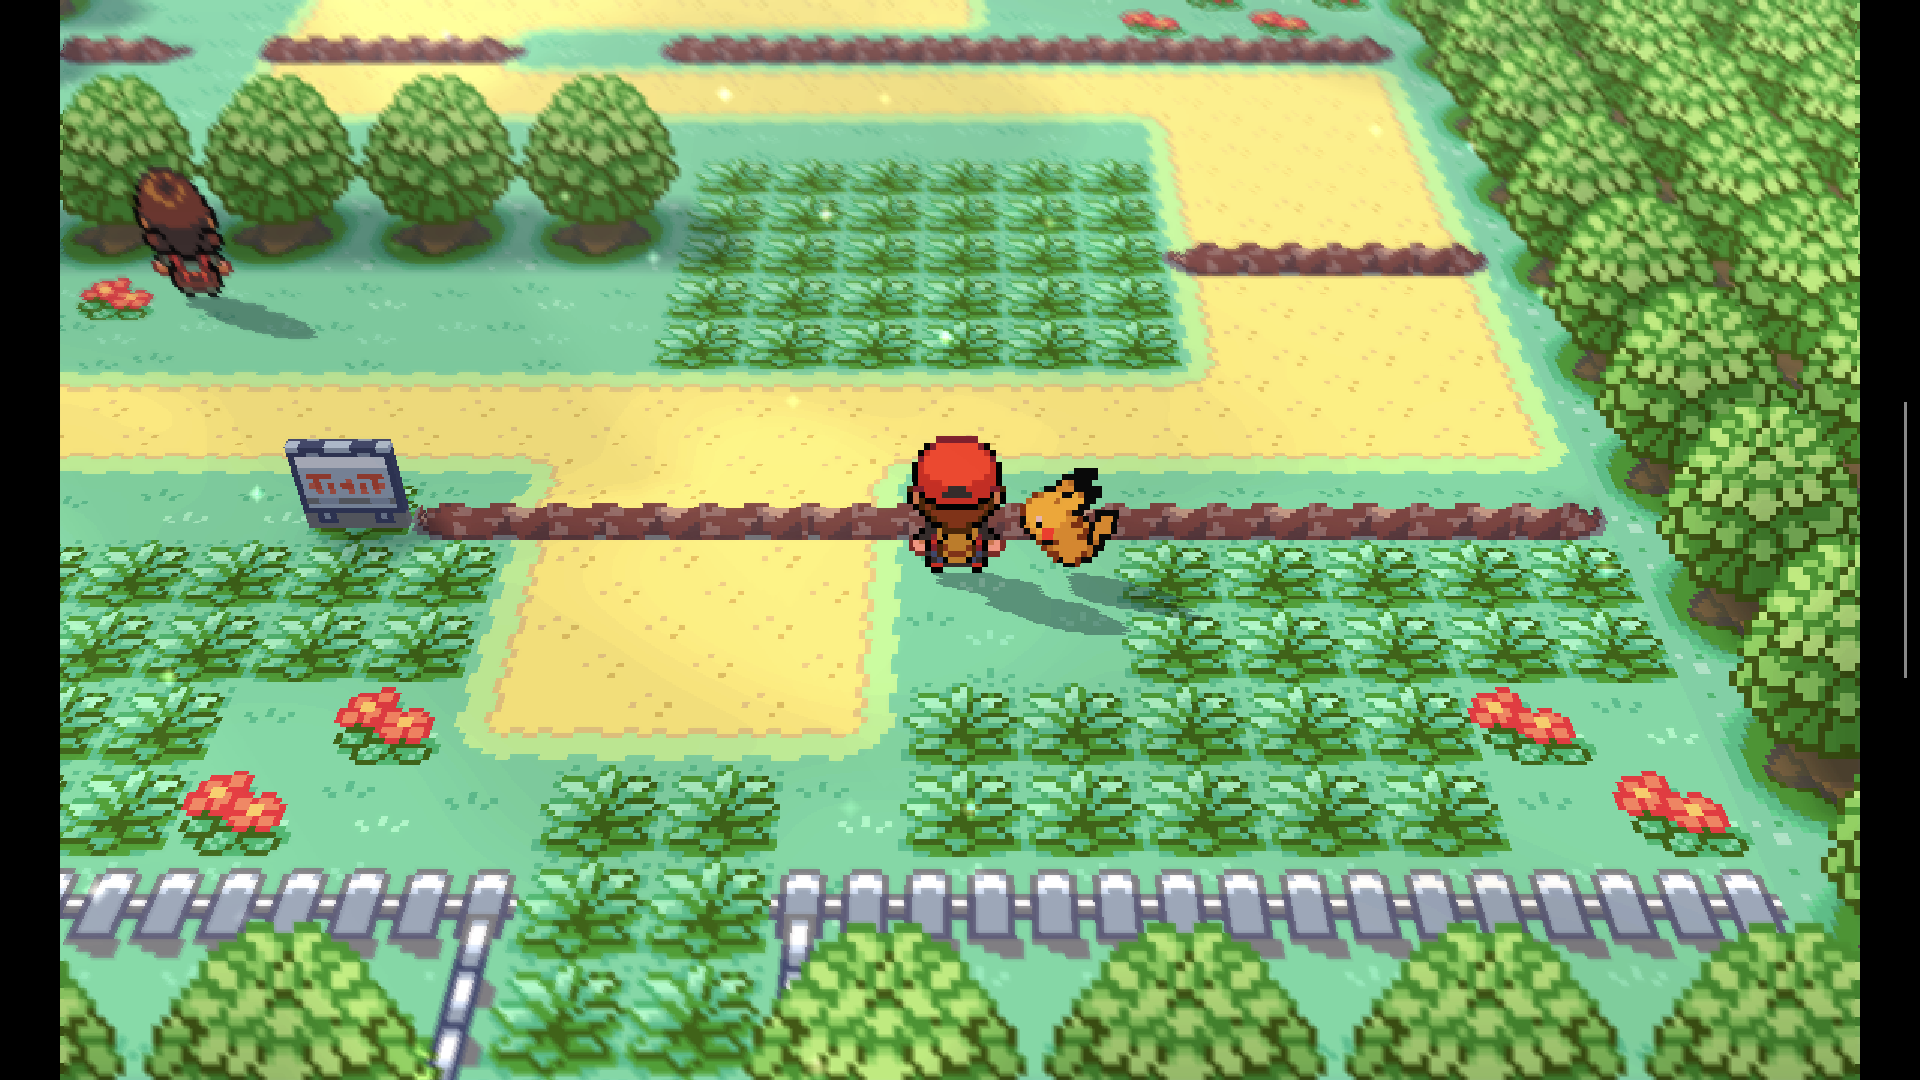
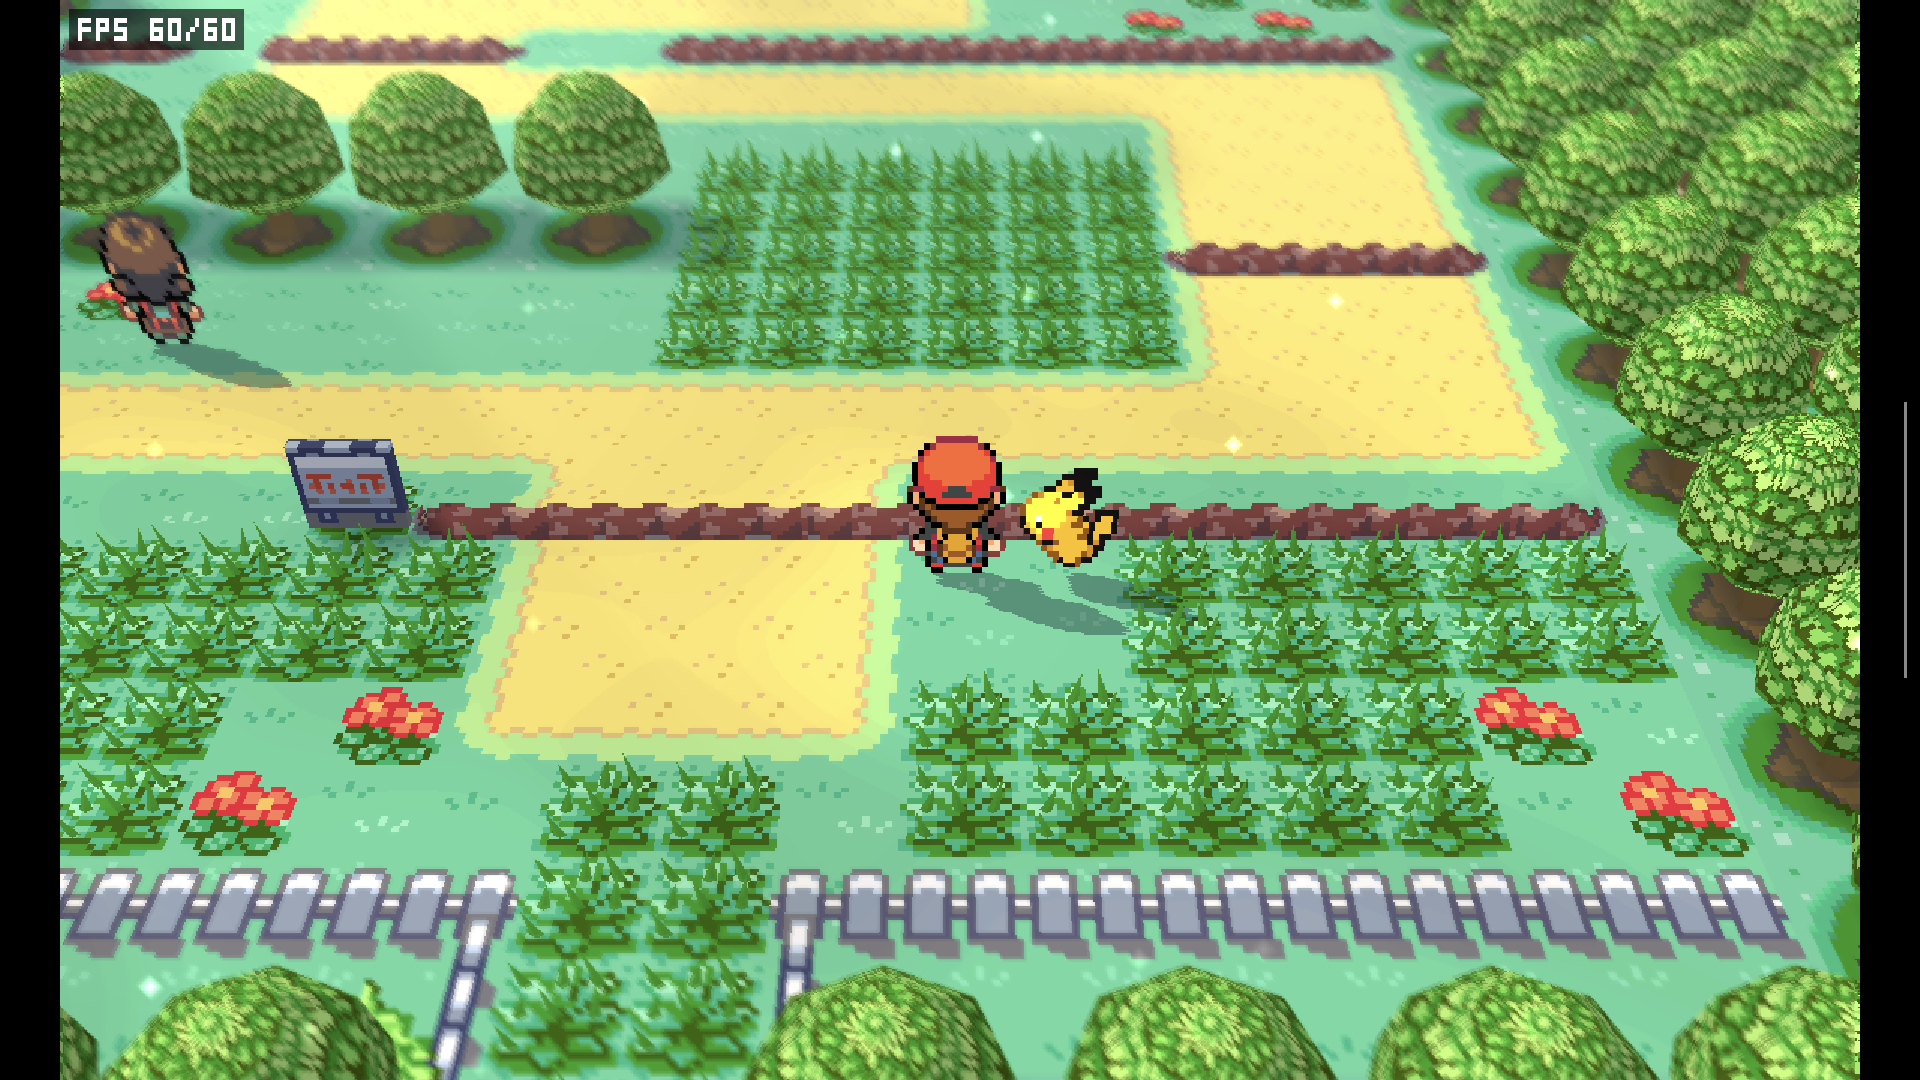
Add Classic Thor qualification and 3D scenery media

diff --git a/README.md b/README.md
@@ -418,7 +418,7 @@ Freak, Creatures or The Pokémon Company.
 <!-- EXPANDED PROPS PREVIEW -->
 ### Expanded 3D scenery
 
-Passing builds: firered, frlg. These builds passed Thor field, idle battle, active battle through return, multiple-rock visibility, Strength and Rock Smash checks. [Builds, scope and fresh media](https://zempoh.github.io/Pokemon-FireRed-3DS-Azahar/scenery-3d.html). Other expanded candidates remain unpublished until qualification; coverage of every asset and tileset is not complete.
+Passing builds: firered, frlg, classic. These builds passed Thor field, idle battle, active battle through return, multiple-rock visibility, Strength and Rock Smash checks. [Builds, scope and fresh media](https://zempoh.github.io/Pokemon-FireRed-3DS-Azahar/scenery-3d.html). Other expanded candidates remain unpublished until qualification; coverage of every asset and tileset is not complete.
 
 **firered** — [matching ROM-free bundle](https://github.com/ZempOh/Pokemon-FireRed-3DS-Azahar/releases/download/graphics-upgrade-2026-11-18/FireRed-3D-Scenery-2026-11-19.zip)
 
@@ -431,5 +431,11 @@ Passing builds: firered, frlg. These builds passed Thor field, idle battle, acti
 ![frlg actual 3D boulder movement on Thor](docs/screenshots/graphics-gallery/frlg-boulder-moving.gif)
 
 ![frlg actual Rock Smash on Thor](docs/screenshots/graphics-gallery/frlg-rock-smash.gif)
+
+**classic** — [matching ROM-free bundle](https://github.com/ZempOh/Pokemon-FireRed-3DS-Azahar/releases/download/graphics-upgrade-2026-11-18/Classic-3D-Scenery-2026-11-19.zip)
+
+![classic actual 3D boulder movement on Thor](docs/screenshots/graphics-gallery/classic-boulder-moving.gif)
+
+![classic actual Rock Smash on Thor](docs/screenshots/graphics-gallery/classic-rock-smash.gif)
 
 [All six games: 2D/3D, seasonal, battle screenshots and GIFs](https://zempoh.github.io/Pokemon-FireRed-3DS-Azahar/gallery.html). GIFs are reduced to 10 FPS for size; measured pacing is in the verification report. The initial [offline asset prototype](https://zempoh.github.io/Pokemon-FireRed-3DS-Azahar/props-preview.html) is separate from these Thor captures.
